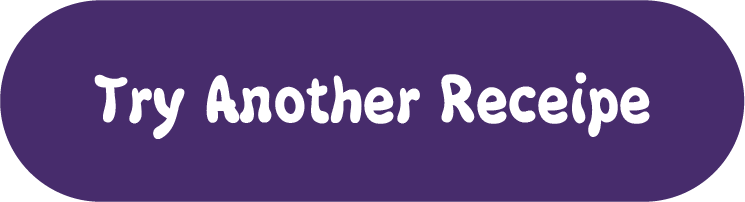
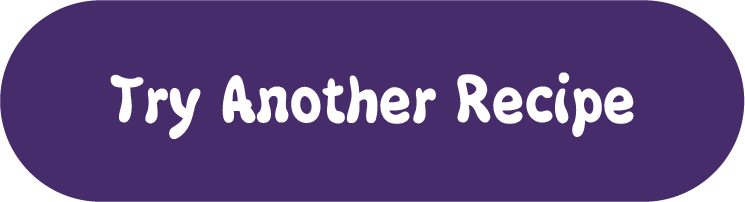
(Refactor): renomeando receipe -> recipe

Changed region(s): [[0.1235, 0.3564, 0.8953, 0.6832]]

diff --git a/Mixed Juice.playground/Sources/Views/Game/EndGameView.swift b/Mixed Juice.playground/Sources/Views/Game/EndGameView.swift
@@ -25,31 +25,31 @@ struct EndGameView: View {
                             .font(.custom("YgroSansBeta-Bold", size: 36))
                             .padding(.all)
                         
-                        Text(self.win ? "You unveiled my secret recipe in \(self.game.currentRound) attempt\(self.game.currentRound > 1 ? "s" : "")!" : "You failed to unravel my receipe in 8 attempts.\nBut still, I will give the answer.")
+                        Text(self.win ? "You unveiled my secret recipe in \(self.game.currentRound) attempt\(self.game.currentRound > 1 ? "s" : "")!" : "You failed to unravel my recipe in 8 attempts.\nBut still, I will give the answer.")
                             .font(.custom("YgroSansBeta-Medium", size: 24))
                             .multilineTextAlignment(.center)
                             .padding([.horizontal, .bottom])
                         
                         HStack {
-                            Image(uiImage: UIImage(imageLiteralResourceName: self.game.secretReceipe[0]))
+                            Image(uiImage: UIImage(imageLiteralResourceName: self.game.secretRecipe[0]))
                                 .resizable()
                                 .frame(width: 90, height: 90, alignment: /*@START_MENU_TOKEN@*/.center/*@END_MENU_TOKEN@*/)
                                 .scaledToFill()
                                 .padding()
                             
-                            Image(uiImage: UIImage(imageLiteralResourceName: self.game.secretReceipe[1]))
+                            Image(uiImage: UIImage(imageLiteralResourceName: self.game.secretRecipe[1]))
                                 .resizable()
                                 .frame(width: 90, height: 90, alignment: /*@START_MENU_TOKEN@*/.center/*@END_MENU_TOKEN@*/)
                                 .scaledToFill()
                                 .padding()
                             
-                            Image(uiImage: UIImage(imageLiteralResourceName: self.game.secretReceipe[2]))
+                            Image(uiImage: UIImage(imageLiteralResourceName: self.game.secretRecipe[2]))
                                 .resizable()
                                 .frame(width: 90, height: 90, alignment: /*@START_MENU_TOKEN@*/.center/*@END_MENU_TOKEN@*/)
                                 .scaledToFill()
                                 .padding()
                             
-                            Image(uiImage: UIImage(imageLiteralResourceName: self.game.secretReceipe[3]))
+                            Image(uiImage: UIImage(imageLiteralResourceName: self.game.secretRecipe[3]))
                                 .resizable()
                                 .frame(width: 90, height: 90, alignment: /*@START_MENU_TOKEN@*/.center/*@END_MENU_TOKEN@*/)
                                 .scaledToFill()
@@ -57,7 +57,7 @@ struct EndGameView: View {
                         }
                         .padding()
                         
-                        Text(self.win ? "Now you can say that you are becoming a master\nin the art of making juices. " :  "Write it down so you don't forget. Let's try another receipe?")
+                        Text(self.win ? "Now you can say that you are becoming a master\nin the art of making juices. " :  "Write it down so you don't forget. Let's try another recipe?")
                             .font(.custom("YgroSansBeta-Book", size: 20))
                             .multilineTextAlignment(.center)
                         

diff --git a/Mixed Juice.playground/Sources/ViewModel/GameEnvironment.swift b/Mixed Juice.playground/Sources/ViewModel/GameEnvironment.swift
@@ -3,7 +3,7 @@ import SwiftUI
 class GameEnvironment: ObservableObject {
     
     var ingredients: [String] = []
-    var secretReceipe: [String] = []
+    var secretRecipe: [String] = []
     var currentRound: Int = 0 {
         didSet {
             self.checkEndGame()
@@ -16,8 +16,8 @@ class GameEnvironment: ObservableObject {
     @Published var fluidLevel: CGFloat = 75.0
     @Published var mix: Bool = false
     @Published var hasFruitSelected: Bool = false
-    @Published var insertInReceipe: [Bool] = [false, false, false, false]
-    @Published var imagesReceipe: [UIImage] = [UIImage(), UIImage(), UIImage(), UIImage()]
+    @Published var insertInRecipe: [Bool] = [false, false, false, false]
+    @Published var imagesRecipe: [UIImage] = [UIImage(), UIImage(), UIImage(), UIImage()]
     @Published var gameEnded: Bool = false
     
     var selectedFruit: UIImage = UIImage()
@@ -36,14 +36,14 @@ class GameEnvironment: ObservableObject {
         self.fluidLevel = self.initialFluidLevel
         self.mix = false
         self.hasFruitSelected = false
-        self.insertInReceipe = [false, false, false, false]
-        self.imagesReceipe = [UIImage(), UIImage(), UIImage(), UIImage()]
+        self.insertInRecipe = [false, false, false, false]
+        self.imagesRecipe = [UIImage(), UIImage(), UIImage(), UIImage()]
         self.selectedFruit = UIImage()
     }
     
     func newGame() {
         self.ingredients = ["Strawberry", "Orange", "Avocado", "Peach"]
-        self.secretReceipe = self.createReceipeFromIngredients()
+        self.secretRecipe = self.createRecipeFromIngredients()
         self.currentRound = 0
         self.roundEnded = false
         self.attempts = []
@@ -52,26 +52,26 @@ class GameEnvironment: ObservableObject {
         self.fluidLevel = self.initialFluidLevel
         self.mix = false
         self.hasFruitSelected = false
-        self.insertInReceipe = [false, false, false, false]
-        self.imagesReceipe = [UIImage(), UIImage(), UIImage(), UIImage()]
+        self.insertInRecipe = [false, false, false, false]
+        self.imagesRecipe = [UIImage(), UIImage(), UIImage(), UIImage()]
         self.selectedFruit = UIImage()
         self.gameEnded = false
     }
     
-    private func createReceipeFromIngredients() -> [String] {
-        var receipe: [String] = []
+    private func createRecipeFromIngredients() -> [String] {
+        var recipe: [String] = []
         
         for _ in 0..<4 {
-            receipe.append(self.ingredients.randomElement()!)
+            recipe.append(self.ingredients.randomElement()!)
         }
         
-        print(receipe)
-        return receipe
+        print(recipe)
+        return recipe
     }
     
     func getCurrentSequenceImageAt(_ index: Int) -> UIImage {
         if index < self.fruitsCount {
-            return self.currentSequence.receipe[index]
+            return self.currentSequence.recipe[index]
         } else {
             return UIImage()
         }

diff --git a/Mixed Juice.playground/Sources/Views/Game/CardReceipeView.swift b/Mixed Juice.playground/Sources/Views/Game/CardReceipeView.swift
@@ -1,6 +1,6 @@
 import SwiftUI
 
-struct CardReceipeView: View {
+struct CardRecipeView: View {
     
     @ObservedObject var game: GameEnvironment
     
@@ -8,13 +8,13 @@ struct CardReceipeView: View {
         let fruitsCount = self.game.fruitsCount
         let fruitShadow = self.getFruitWithShadow(fruit: fruitCleaned)
 
-        if fruitsCount < 4 && !self.game.insertInReceipe[index] {
+        if fruitsCount < 4 && !self.game.insertInRecipe[index] {
             self.game.fruitsCount += 1
             self.game.fruitsCount = self.game.fruitsCount.clamped(to: 0...4)
         }
         
         self.game.currentSequence.fruits[index] = fruitShadow
-        self.game.currentSequence.receipe[index] = fruitCleaned
+        self.game.currentSequence.recipe[index] = fruitCleaned
 
         self.game.objectWillChange.send()
     }
@@ -53,8 +53,8 @@ struct CardReceipeView: View {
                     Button(action: {
                         if self.game.hasFruitSelected && !self.game.roundEnded {
                             self.addFruit(fruitCleaned: self.game.selectedFruit, index: index)
-                            self.game.insertInReceipe[index] = true
-                            self.game.imagesReceipe[index] = self.game.selectedFruit
+                            self.game.insertInRecipe[index] = true
+                            self.game.imagesRecipe[index] = self.game.selectedFruit
                             self.game.objectWillChange.send()
                         }
                         
@@ -65,7 +65,7 @@ struct CardReceipeView: View {
                                 .border(Color.lightPurple, width: 2)
                                 .frame(width: 60, height: 60, alignment: /*@START_MENU_TOKEN@*/.center/*@END_MENU_TOKEN@*/)
                             
-                            Image(uiImage: self.game.imagesReceipe[index])
+                            Image(uiImage: self.game.imagesRecipe[index])
                                 .resizable()
                                 .frame(width: 50, height: 50, alignment: /*@START_MENU_TOKEN@*/.center/*@END_MENU_TOKEN@*/)
                         }
@@ -76,7 +76,7 @@ struct CardReceipeView: View {
                 }
             }
         }
-        .background(Image(uiImage: receipeCardImage).resizable().frame(width: 350, height: 250, alignment: /*@START_MENU_TOKEN@*/.center/*@END_MENU_TOKEN@*/))
+        .background(Image(uiImage: recipeCardImage).resizable().frame(width: 350, height: 250, alignment: /*@START_MENU_TOKEN@*/.center/*@END_MENU_TOKEN@*/))
     }
     
 }

diff --git a/Mixed Juice.playground/Sources/Model/RoundSequence.swift b/Mixed Juice.playground/Sources/Model/RoundSequence.swift
@@ -2,22 +2,22 @@ import SwiftUI
 
 public class RoundSequence {
     var fruits: [UIImage] = [UIImage(), UIImage(), UIImage(), UIImage()]
-    var receipe: [UIImage] = [UIImage(), UIImage(), UIImage(), UIImage()]
+    var recipe: [UIImage] = [UIImage(), UIImage(), UIImage(), UIImage()]
     var hits: [Feedback] = []
     
     public enum Feedback {
         case correct, almost, incorrect
     }
     
-    public init(fruits: [UIImage], receipe: [UIImage], hits: [Feedback]) {
+    public init(fruits: [UIImage], recipe: [UIImage], hits: [Feedback]) {
         self.fruits = fruits
-        self.receipe = receipe
+        self.recipe = recipe
         self.hits = hits
     }
     
     public init(){
         self.fruits = [UIImage(), UIImage(), UIImage(), UIImage()]
-        self.receipe = [UIImage(), UIImage(), UIImage(), UIImage()]
+        self.recipe = [UIImage(), UIImage(), UIImage(), UIImage()]
         self.hits = []
     }
     
@@ -25,26 +25,26 @@ public class RoundSequence {
         return self.hits
     }
     
-    public func defineHits(secretReceipe: [String]) {
+    public func defineHits(secretRecipe: [String]) {
         var corrects: Int = 0
         var almosts: Int = 0
         var incorrects: Int = 0
         var correctsIndex: [Int] = []
-        var secretReceipeImages: [UIImage] = secretReceipe.map({UIImage(imageLiteralResourceName: $0)})
+        var secretRecipeImages: [UIImage] = secretRecipe.map({UIImage(imageLiteralResourceName: $0)})
         
         for index in 0..<4 {
-            if self.fruits[index] == secretReceipeImages[index] {
+            if self.fruits[index] == secretRecipeImages[index] {
                 corrects += 1
                 correctsIndex.append(index)
-                secretReceipeImages[index] = UIImage()
+                secretRecipeImages[index] = UIImage()
             }
         }
         
         for index in 0..<4 {
             if !correctsIndex.contains(index) {
-                if let ind = secretReceipeImages.lastIndex(of: self.fruits[index]){
+                if let ind = secretRecipeImages.lastIndex(of: self.fruits[index]){
                     almosts += 1
-                    secretReceipeImages[ind] = UIImage()
+                    secretRecipeImages[ind] = UIImage()
                 }
             }
         }

diff --git a/Mixed Juice.playground/Sources/Views/Game/GameView.swift b/Mixed Juice.playground/Sources/Views/Game/GameView.swift
@@ -146,12 +146,12 @@ public struct GameView: View {
                             .padding(.trailing, 50)
                         
                         ZStack {
-                            CardReceipeView(game: self.game)
+                            CardRecipeView(game: self.game)
                                 .frame(width: 350, height: 230, alignment: .top)
                                 .padding(.leading, 50)
                                 .offset(y: -70)
                             
-                            Text(self.game.fruitsCount == 4 ? (self.game.roundEnded ? "Click the blender\nbutton to reset receipe." : "Click the blender\nbutton to see the result!") : "")
+                            Text(self.game.fruitsCount == 4 ? (self.game.roundEnded ? "Click the blender\nbutton to reset recipe." : "Click the blender\nbutton to see the result!") : "")
                                 .font(.custom("YgroSansBeta-Bold", size: 20))
                                 .multilineTextAlignment(.center)
                                 .offset(x: 20, y: 90)

diff --git a/Mixed Juice.playground/Sources/Views/Game/BlenderView.swift b/Mixed Juice.playground/Sources/Views/Game/BlenderView.swift
@@ -123,8 +123,8 @@ struct BaseBlenderView: View {
         self.game.attempts.append(self.game.currentSequence)
         self.game.currentRound += 1
         self.game.roundEnded = false
-        self.game.insertInReceipe = [false, false, false, false]
-        self.game.imagesReceipe = [UIImage(), UIImage(), UIImage(), UIImage()]
+        self.game.insertInRecipe = [false, false, false, false]
+        self.game.imagesRecipe = [UIImage(), UIImage(), UIImage(), UIImage()]
         
         if !self.game.checkWinner(){
             self.game.currentSequence = RoundSequence()
@@ -143,7 +143,7 @@ struct BaseBlenderView: View {
             if !feedbackIsVisible {
                 mixJuice()
             }
-            self.game.currentSequence.defineHits(secretReceipe: self.game.secretReceipe)
+            self.game.currentSequence.defineHits(secretRecipe: self.game.secretRecipe)
             self.feedbackIsVisible.toggle()
         }
     }

diff --git a/Mixed Juice.playground/Sources/Extensions/Extensions.swift b/Mixed Juice.playground/Sources/Extensions/Extensions.swift
@@ -4,7 +4,7 @@ import SwiftUI
 //    static var menuBackgroundImage = UIImage(imageLiteralResourceName: "MenuBackground")
 //    static var startButtonImage = UIImage(imageLiteralResourceName: "StartButton")
 //    static var backgroundImage = UIImage(imageLiteralResourceName: "KitchenBackground")
-//    static var receipeCardImage = UIImage(imageLiteralResourceName: "ReceipeCard")
+//    static var recipeCardImage = UIImage(imageLiteralResourceName: "RecipeCard")
 //    static var card = UIImage(imageLiteralResourceName: "Card")
 //
 //    // Booth and Shelf

diff --git a/Mixed Juice.playground/Sources/Views/Main/MainView.swift b/Mixed Juice.playground/Sources/Views/Main/MainView.swift
@@ -3,7 +3,7 @@ import SwiftUI
 // Backgrounds
 var menuBackgroundImage = UIImage(imageLiteralResourceName: "MenuBackground")
 var backgroundImage = UIImage(imageLiteralResourceName: "KitchenBackground")
-var receipeCardImage = UIImage(imageLiteralResourceName: "ReceipeCard")
+var recipeCardImage = UIImage(imageLiteralResourceName: "RecipeCard")
 var popUpBackground = UIImage(imageLiteralResourceName: "PopUpBackground")
 
 // Booth and Shelf
